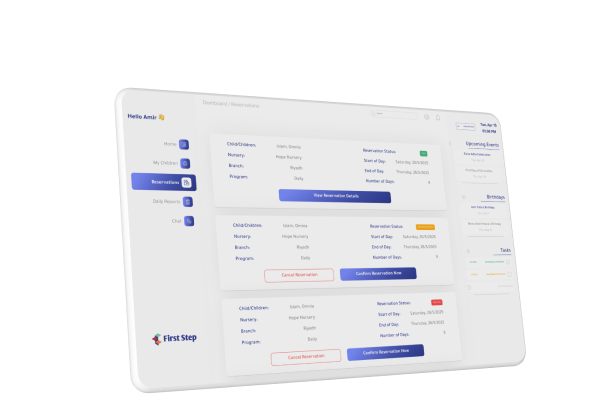
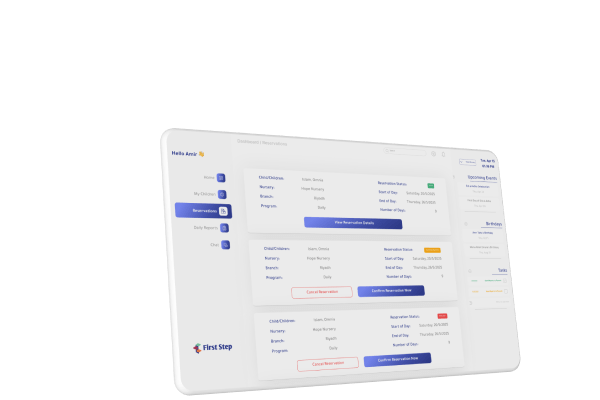
fix(hero): adjust HeroSection padding and update max-width classes

diff --git a/src/components/general/HeroSection.tsx b/src/components/general/HeroSection.tsx
@@ -222,10 +222,10 @@ const HeroSection = () => {
                         zIndex: 50,
                       }}
                     >
-                      <div className="z-20 relative pt-52 pb-80 2xl:py-40 w-full h-full">
+                      <div className="z-20 relative pt-52 pb-80 2xl:py-24 w-full h-full">
                         {/* Content area */}
                         <motion.div
-                          className="z-50 relative flex flex-col gap-y-6 max-w-[50rem]"
+                          className="z-50 relative flex flex-col gap-y-6 rtl:max-w-[50rem] ltr:max-w-[49rem]"
                           initial={{ opacity: 0, scale: 0.98 }}
                           animate={{ opacity: 1, scale: 1 }}
                           exit={{ opacity: 0, scale: 0.98 }}
